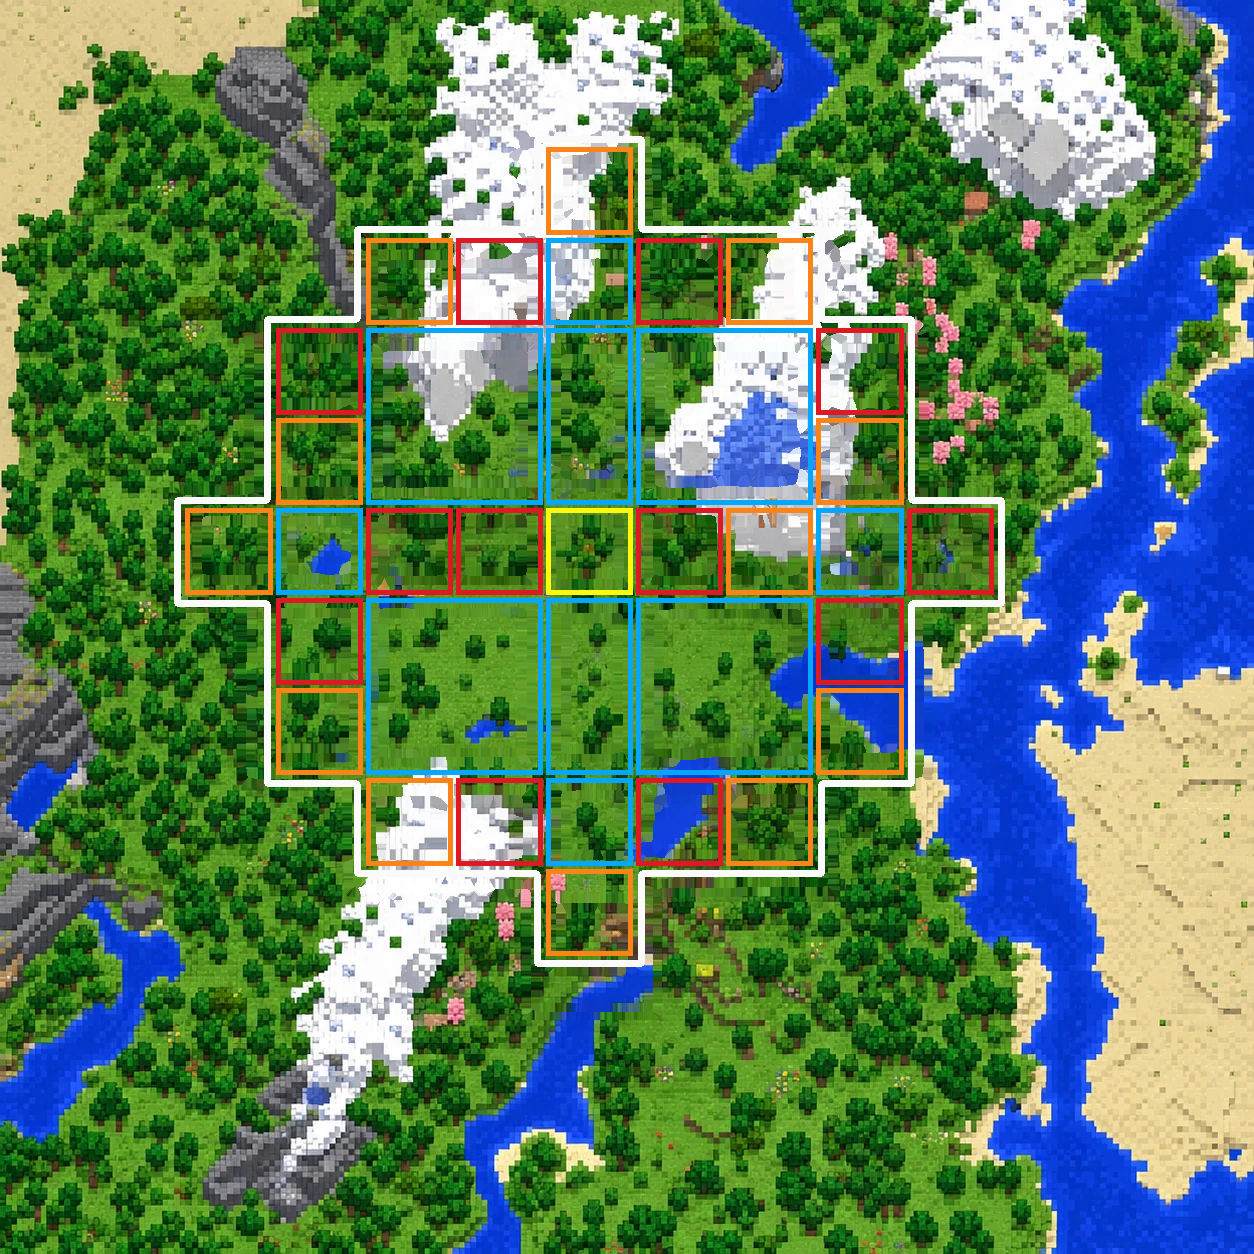
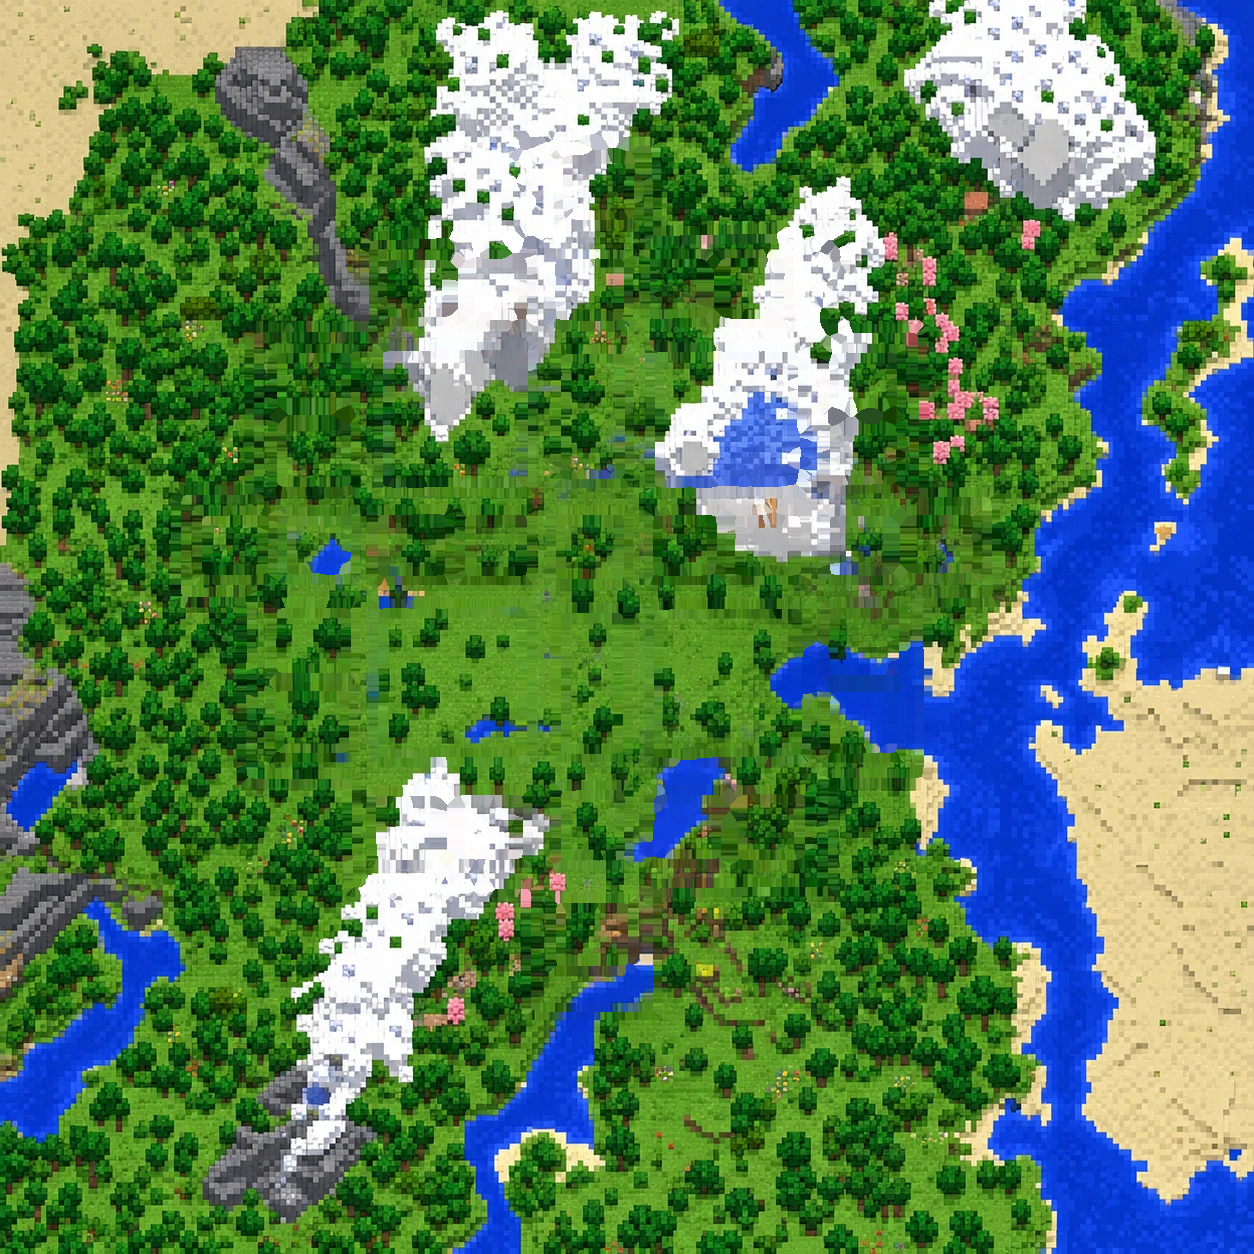
背景地図と区画の枠線を切り離し、枠線を表示項目で出し入れできるようにする
- map/10月18日.png を枠線なしの地図に差し替え
- 区画の枠線・白い外周線を js/data/MAP_plots.js の座標から線で描く（plot-frames.js）
- 「地図の表示項目」に「区画の枠線を表示」を追加（地図の比較画面にも反映）

Changed region(s): [[0.1244, 0.0933, 0.8086, 0.7775]]

diff --git a/index.html b/index.html
@@ -8,7 +8,7 @@
     <link rel="icon" href="https://shun-chacha.github.io/homekura-live/img/favicon.ico" type="image/x-icon">
     <link rel="icon" href="https://shun-chacha.github.io/homekura-live/img/icon.png" type="image/png" sizes="192x192">
     <link rel="apple-touch-icon" href="https://shun-chacha.github.io/homekura-live/img/apple-touch-icon.png">
-    <link rel="stylesheet" href="shared/theme.css?v=202610191742">
+    <link rel="stylesheet" href="shared/theme.css?v=202610191753">
 
     <style>
         body {
@@ -536,20 +536,20 @@
 
 <div class="banner-container">
     <div class="header-logo-wrap">
-        <img src="img/logo.png?v=202610191742" alt="homeクラ" class="header-logo">
-        <img src="img/season3-text.png?v=202610191742" alt="Season３" class="header-season">
+        <img src="img/logo.png?v=202610191753" alt="homeクラ" class="header-logo">
+        <img src="img/season3-text.png?v=202610191753" alt="Season３" class="header-season">
     </div>
 </div>
 
 <div class="top-buttons-wrapper">
     <a href="https://charagp.full-comi.jp/event/lp/84?chara_event_id=7" class="yurugp-btn" target="_blank" title="世界ご当地キャラ グランプリ">
-        <img src="img/charagp-icon.jpg?v=202610191742" alt="世界ご当地キャラ グランプリ">
+        <img src="img/charagp-icon.jpg?v=202610191753" alt="世界ご当地キャラ グランプリ">
     </a>
     <a href="https://github.com/SHUN-CHACHA/minecraft-tools/tree/main" class="yurugp-btn github-btn" target="_blank" title="旬茶オリジナルMInecraft Tools">
-        <img src="img/github-icon.png?v=202610191742" alt="旬茶オリジナルMInecraft Tools">
+        <img src="img/github-icon.png?v=202610191753" alt="旬茶オリジナルMInecraft Tools">
     </a>
     <a href="https://modrinth.com/user/SHUNCHA" class="yurugp-btn modrinth-btn" target="_blank" title="Modrinth">
-        <img src="img/modrinth-icon.png?v=202610191742" alt="Modrinth">
+        <img src="img/modrinth-icon.png?v=202610191753" alt="Modrinth">
     </a>
     <div class="top-buttons-stack">
         <div class="external-links-container">
@@ -566,7 +566,7 @@
         <div class="header-controls">
             <div class="controls-left">
                 <a href="https://shun-chacha.github.io/homekura-live/roulette.html" class="roulette-btn" target="_blank">
-                    <img src="img/roulette-icon.png?v=202610191742" alt="" style="width: 16px; height: 16px; vertical-align: middle;">
+                    <img src="img/roulette-icon.png?v=202610191753" alt="" style="width: 16px; height: 16px; vertical-align: middle;">
                     旬茶作 ルーレット
                 </a>
             </div>
@@ -592,8 +592,8 @@
 </div>
 
 <div class="map-link-container">
-    <a href="minecraft_map.html?v=202610191742" target="_blank" class="map-link-btn">homeクラ Season3 メンバー拠点マップ</a>
-    <a href="season2/index.html?v=202610191742" class="map-link-btn" style="opacity:0.75;">📁 Season2（過去シーズン）はこちら</a>
+    <a href="minecraft_map.html?v=202610191753" target="_blank" class="map-link-btn">homeクラ Season3 メンバー拠点マップ</a>
+    <a href="season2/index.html?v=202610191753" class="map-link-btn" style="opacity:0.75;">📁 Season2（過去シーズン）はこちら</a>
 </div>
 
 <div class="main-wrapper">
@@ -619,13 +619,13 @@
 
     <div class="section-box" id="member">
         <div class="section-title">👥 メンバー一覧
-            <a href="members.pdf?v=202610191742" target="_blank" class="btn-member-pdf" title="メンバー一覧（PDF）を開く">📄 PDF</a>
+            <a href="members.pdf?v=202610191753" target="_blank" class="btn-member-pdf" title="メンバー一覧（PDF）を開く">📄 PDF</a>
         </div>
         <div id="allList" class="list-container"></div>
     </div>
 </div>
 
-<script src="js/data/config.js?v=202610191742"></script>
+<script src="js/data/config.js?v=202610191753"></script>
 
 <!-- 🧊 3Dスキンビューアー用ライブラリ（ESM配信のみのためmoduleで読み込みwindowに公開） -->
 <script type="module">
@@ -641,7 +641,7 @@ const PROXY_URL = (window.CONFIG?.YOUTUBE_PROXY_URL || '').replace(/\/$/, '');
 const CACHE_DURATION_MS         = window.CONFIG?.CACHE_DURATION_MS          ?? (5  * 60 * 1000);
 const CHANNEL_ICON_CACHE_DURATION_MS = window.CONFIG?.CHANNEL_ICON_CACHE_DURATION_MS ?? (24 * 60 * 60 * 1000);
 // 画像のキャッシュ対策用バージョン番号（コミット時に scripts/bump-asset-version.ps1 が自動更新する）
-const ASSET_VERSION = '202610191742';
+const ASSET_VERSION = '202610191753';
 let channels = [];
 let reservedVideos = JSON.parse(localStorage.getItem('reserved_videos') || '[]');
 let timeLeft = 600;

diff --git a/js/data/MAP_plots.js b/js/data/MAP_plots.js
@@ -1,0 +1,54 @@
+// ==========================================================
+// 🟥 homeクラ メンバー拠点マップ - 区画の枠線データ（Season3）
+// 背景の地図画像とは別に、地図の上に線として描きます（「地図の表示項目」の「区画の枠線を表示」で出し入れ）。
+//
+// no    : 区画番号（全体図の枠に上の段から左→右の順で振った番号。MAP_member.js の area と同じ）
+// color : 枠線の色（red / orange / blue / yellow）
+// x, z  : 区画の北西の角（左上）のブロック座標
+// w, h  : 区画の幅（東西）・高さ（南北）のブロック数。1区画＝3チャンク（48ブロック）
+// ==========================================================
+const plotData = [
+    { no: 1, color: "orange", x: 192, z: -416, w: 48, h: 48 },
+    { no: 2, color: "orange", x: 96, z: -368, w: 48, h: 48 },
+    { no: 3, color: "red", x: 144, z: -368, w: 48, h: 48 },
+    { no: 4, color: "blue", x: 192, z: -368, w: 48, h: 48 },
+    { no: 5, color: "red", x: 240, z: -368, w: 48, h: 48 },
+    { no: 6, color: "orange", x: 288, z: -368, w: 48, h: 48 },
+    { no: 7, color: "red", x: 48, z: -320, w: 48, h: 48 },
+    { no: 8, color: "red", x: 336, z: -320, w: 48, h: 48 },
+    { no: 9, color: "blue", x: 96, z: -320, w: 96, h: 96 },
+    { no: 10, color: "blue", x: 192, z: -320, w: 48, h: 96 },
+    { no: 11, color: "blue", x: 240, z: -320, w: 96, h: 96 },
+    { no: 12, color: "orange", x: 48, z: -272, w: 48, h: 48 },
+    { no: 13, color: "orange", x: 336, z: -272, w: 48, h: 48 },
+    { no: 14, color: "orange", x: 0, z: -224, w: 48, h: 48 },
+    { no: 15, color: "blue", x: 48, z: -224, w: 48, h: 48 },
+    { no: 16, color: "red", x: 96, z: -224, w: 48, h: 48 },
+    { no: 17, color: "red", x: 144, z: -224, w: 48, h: 48 },
+    { no: 18, color: "yellow", x: 192, z: -224, w: 48, h: 48 },
+    { no: 19, color: "red", x: 240, z: -224, w: 48, h: 48 },
+    { no: 20, color: "orange", x: 288, z: -224, w: 48, h: 48 },
+    { no: 21, color: "blue", x: 336, z: -224, w: 48, h: 48 },
+    { no: 22, color: "red", x: 384, z: -224, w: 48, h: 48 },
+    { no: 23, color: "red", x: 48, z: -176, w: 48, h: 48 },
+    { no: 24, color: "red", x: 336, z: -176, w: 48, h: 48 },
+    { no: 25, color: "blue", x: 96, z: -176, w: 96, h: 96 },
+    { no: 26, color: "blue", x: 192, z: -176, w: 48, h: 96 },
+    { no: 27, color: "blue", x: 240, z: -176, w: 96, h: 96 },
+    { no: 28, color: "orange", x: 48, z: -128, w: 48, h: 48 },
+    { no: 29, color: "orange", x: 336, z: -128, w: 48, h: 48 },
+    { no: 30, color: "orange", x: 96, z: -80, w: 48, h: 48 },
+    { no: 31, color: "red", x: 144, z: -80, w: 48, h: 48 },
+    { no: 32, color: "blue", x: 192, z: -80, w: 48, h: 48 },
+    { no: 33, color: "red", x: 240, z: -80, w: 48, h: 48 },
+    { no: 34, color: "orange", x: 288, z: -80, w: 48, h: 48 },
+    { no: 35, color: "orange", x: 192, z: -32, w: 48, h: 48 }
+];
+
+// 区画全体を囲む白い外周線（区画から4ブロック外側）の頂点 [x, z]
+const plotOutline = [
+    [188, -420], [244, -420], [244, -372], [340, -372], [340, -324], [388, -324], [388, -228],
+    [436, -228], [436, -172], [388, -172], [388, -76], [340, -76], [340, -28], [244, -28],
+    [244, 20], [188, 20], [188, -28], [92, -28], [92, -76], [44, -76], [44, -172],
+    [-4, -172], [-4, -228], [44, -228], [44, -324], [92, -324], [92, -372], [188, -372]
+];

diff --git a/js/map/plot-frames.js b/js/map/plot-frames.js
@@ -1,0 +1,49 @@
+// ==========================================================
+// 🟥 区画の枠線コンポーネント
+// window.MapApp.plotFrames として公開します。
+// plotData / plotOutline は js/data/MAP_plots.js で定義されたものを使います。
+// 背景の地図画像とは別の線として描くので、拡大してもくっきり表示され、
+// 「地図の表示項目」の「区画の枠線を表示」で出し入れできます（.plot-frame を CSS で隠す）。
+// ==========================================================
+(function () {
+    window.MapApp = window.MapApp || {};
+
+    const FRAME_COLORS = {
+        red: '#de1923',
+        orange: '#fb8418',
+        blue: '#05a7fb',
+        yellow: '#fef90e'
+    };
+    const FRAME_INSET_BLOCKS = 1; // 隣り合う区画の線が重ならないよう、少し内側に描く
+
+    // 1つの地図に区画の枠線と外周線を描く（拠点マップ・地図の比較画面で共通）
+    function create(map) {
+        if (!map.getPane('plotFramePane')) {
+            // 背景画像より上、顔アイコンより下に描く
+            map.createPane('plotFramePane').style.zIndex = 450;
+        }
+        const layer = L.layerGroup().addTo(map);
+        const common = { pane: 'plotFramePane', className: 'plot-frame', interactive: false, fill: false };
+
+        if (typeof plotOutline !== 'undefined' && plotOutline.length) {
+            L.polygon(plotOutline.map(([x, z]) => [-z, x]), { ...common, color: '#ffffff', weight: 4, opacity: 0.95 }).addTo(layer);
+        }
+
+        (typeof plotData !== 'undefined' ? plotData : []).forEach((plot) => {
+            const x0 = plot.x + FRAME_INSET_BLOCKS;
+            const x1 = plot.x + plot.w - FRAME_INSET_BLOCKS;
+            const z0 = plot.z + FRAME_INSET_BLOCKS;
+            const z1 = plot.z + plot.h - FRAME_INSET_BLOCKS;
+            L.rectangle([[-z0, x0], [-z1, x1]], {
+                ...common,
+                color: FRAME_COLORS[plot.color] || '#ffffff',
+                weight: 3,
+                opacity: 1
+            }).addTo(layer);
+        });
+
+        return layer;
+    }
+
+    window.MapApp.plotFrames = { create };
+})();

diff --git a/minecraft_map.html b/minecraft_map.html
@@ -419,6 +419,7 @@
             <div id="color-customizer-panel">
                 <h3>🗺 地図の表示項目（この端末のみ保存）</h3>
 
+                <label class="toggle-row"><input type="checkbox" id="cc-show-plots" checked> 区画の枠線を表示</label>
                 <label class="toggle-row"><input type="checkbox" id="cc-show-faces" checked> 顔アイコンを表示</label>
                 <label class="toggle-row"><input type="checkbox" id="cc-show-names" checked> 名前を表示</label>
                 <label class="toggle-row"><input type="checkbox" id="cc-show-coords" checked> 座標を表示</label>
@@ -548,12 +549,16 @@
     <!-- 📍 メンバー以外の目印（方位磁針・共有地など）は js/data/MAP_locations.js に分離 -->
     <script src="js/data/MAP_locations.js"></script>
 
+    <!-- 🟥 区画の枠線（背景画像とは別に線で描く）は js/data/MAP_plots.js に分離 -->
+    <script src="js/data/MAP_plots.js"></script>
+
     <!-- 🧩 機能ごとに分割したJSコンポーネント（js/フォルダ） -->
     <script src="js/map/color-customizer.js"></script>
     <script src="js/map/map-config.js"></script>
     <script src="js/map/map-grid.js"></script>
     <script src="js/map/member-list.js"></script>
     <script src="js/map/location-list.js"></script>
+    <script src="js/map/plot-frames.js"></script>
     <script src="js/map/mobile-ui.js"></script>
     <script src="js/map/download-zip.js"></script>
     <script src="js/map/zoom-slider.js"></script>
@@ -579,6 +584,7 @@
         // ==========================================================
         MapApp.mapConfig.init(map);
         MapApp.mapGrid.init(map);
+        MapApp.plotFrames.create(map);
         MapApp.memberList.init(map);
         MapApp.mapLocations.init(map);
         MapApp.mobileUI.init();

diff --git a/js/map/color-customizer.js b/js/map/color-customizer.js
@@ -23,7 +23,8 @@
         textBgTransparent: false,
         xAxisTransparent: false,
         zAxisTransparent: false,
-        // 地図上に顔アイコンを表示するか、ネームタグに名前・座標を表示するか
+        // 地図上に区画の枠線・顔アイコンを表示するか、ネームタグに名前・座標を表示するか
+        showPlots: true,
         showFaces: true,
         showNames: true,
         showCoords: true
@@ -64,6 +65,7 @@
 
         // 表示切り替えは .map-display-target の付いた要素（拠点マップ・地図の比較画面の地図）に反映する
         document.querySelectorAll('.map-display-target').forEach((el) => {
+            el.classList.toggle('hide-plots', !customColors.showPlots);
             el.classList.toggle('hide-faces', !customColors.showFaces);
             el.classList.toggle('hide-names', !customColors.showNames);
             el.classList.toggle('hide-coords', !customColors.showCoords);
@@ -116,6 +118,7 @@
 
     // 表示ON/OFFのチェックボックス（input id -> customColorsのキー）
     const displayToggleMap = {
+        'cc-show-plots': 'showPlots',
         'cc-show-faces': 'showFaces',
         'cc-show-names': 'showNames',
         'cc-show-coords': 'showCoords'
@@ -194,7 +197,7 @@
             });
         });
 
-        // 顔アイコン・名前・座標の表示ON/OFFの配線
+        // 区画の枠線・顔アイコン・名前・座標の表示ON/OFFの配線
         Object.keys(displayToggleMap).forEach((checkboxId) => {
             const checkbox = document.getElementById(checkboxId);
             const key = displayToggleMap[checkboxId];

diff --git a/map_compare.html b/map_compare.html
@@ -16,11 +16,13 @@
     <!-- 📍 メンバー・「場所」（メンバーではない目印）のデータ -->
     <script src="js/data/MAP_member.js"></script>
     <script src="js/data/MAP_locations.js"></script>
+    <script src="js/data/MAP_plots.js"></script>
     <!-- 🧩 拠点マップと共通のコンポーネント（表示項目の設定・格子線・顔アイコン・ズームスライダー） -->
     <script src="js/map/color-customizer.js"></script>
     <script src="js/map/map-grid.js"></script>
     <script src="js/map/member-list.js"></script>
     <script src="js/map/location-list.js"></script>
+    <script src="js/map/plot-frames.js"></script>
     <script src="js/map/zoom-slider.js"></script>
 
     <style>
@@ -214,11 +216,12 @@
     mapRight.on('move zoom', () => syncMaps(mapRight, mapLeft));
 
     // ==========================================================
-    // 📍 拠点マップと同じ顔アイコン・ネームタグ・格子線・軸線を両方の地図に表示する
+    // 📍 拠点マップと同じ区画の枠線・顔アイコン・ネームタグ・格子線・軸線を両方の地図に表示する
     //     （顔アイコン・名前・座標の表示と色は、拠点マップの「地図の表示項目」の設定を引き継ぐ）
     // ==========================================================
     [mapLeft, mapRight].forEach((map) => {
         MapApp.mapGrid.create(map);
+        MapApp.plotFrames.create(map);
         MapApp.memberList.addMemberMarkers(map);
         MapApp.mapLocations.init(map);
     });

diff --git a/shared/map-markers.css b/shared/map-markers.css
@@ -50,7 +50,8 @@
 .permanent-name-label.unregistered .coord-line {
     color: #88888f;
 }
-/* 🗺 地図の表示項目：顔アイコン・名前・座標の表示切り替え（名前・座標が両方OFFならネームタグごと隠す） */
+/* 🗺 地図の表示項目：区画の枠線・顔アイコン・名前・座標の表示切り替え（名前・座標が両方OFFならネームタグごと隠す） */
+.map-display-target.hide-plots .plot-frame,
 .map-display-target.hide-faces .leaflet-marker-pane,
 .map-display-target.hide-names .permanent-name-label .name-line,
 .map-display-target.hide-coords .permanent-name-label .coord-line,

diff --git a/js/map/download-zip.js b/js/map/download-zip.js
@@ -17,11 +17,13 @@
         'shared/theme.css',
         'js/data/MAP_member.js',
         'js/data/MAP_locations.js',
+        'js/data/MAP_plots.js',
         'js/map/color-customizer.js',
         'js/map/map-config.js',
         'js/map/map-grid.js',
         'js/map/member-list.js',
         'js/map/location-list.js',
+        'js/map/plot-frames.js',
         'js/map/zoom-slider.js',
         'js/map/mobile-ui.js',
         'js/map/download-zip.js'

diff --git a/js/map/map-config.js b/js/map/map-config.js
@@ -15,7 +15,7 @@
 
     const mapImageList = [
         {
-            // 区画は48ブロック（3チャンク）単位。区画全体は X 0〜431 / Z -416〜15
+            // 枠線なしの地図。区画の枠線は js/data/MAP_plots.js から線で描く（区画全体は X 0〜431 / Z -416〜15）
             fileName: 'map/10月18日.png',
             bounds: [[-97.9, -493.7], [569.8, 174.0]],
             opacity: 1
